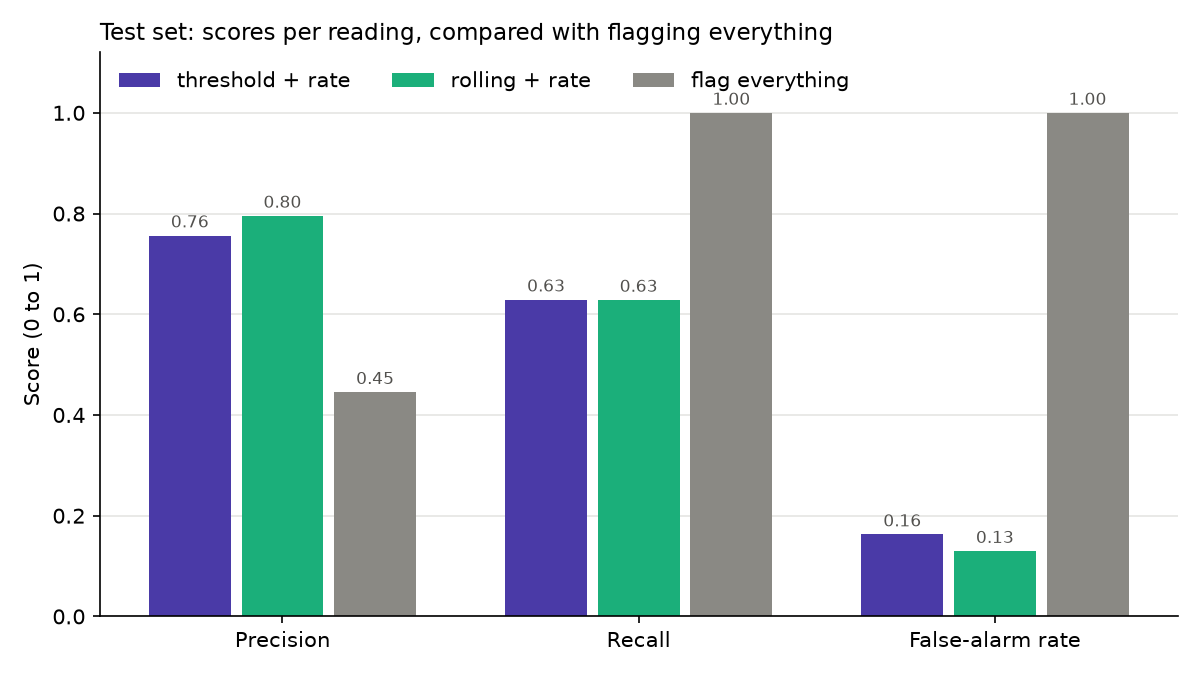
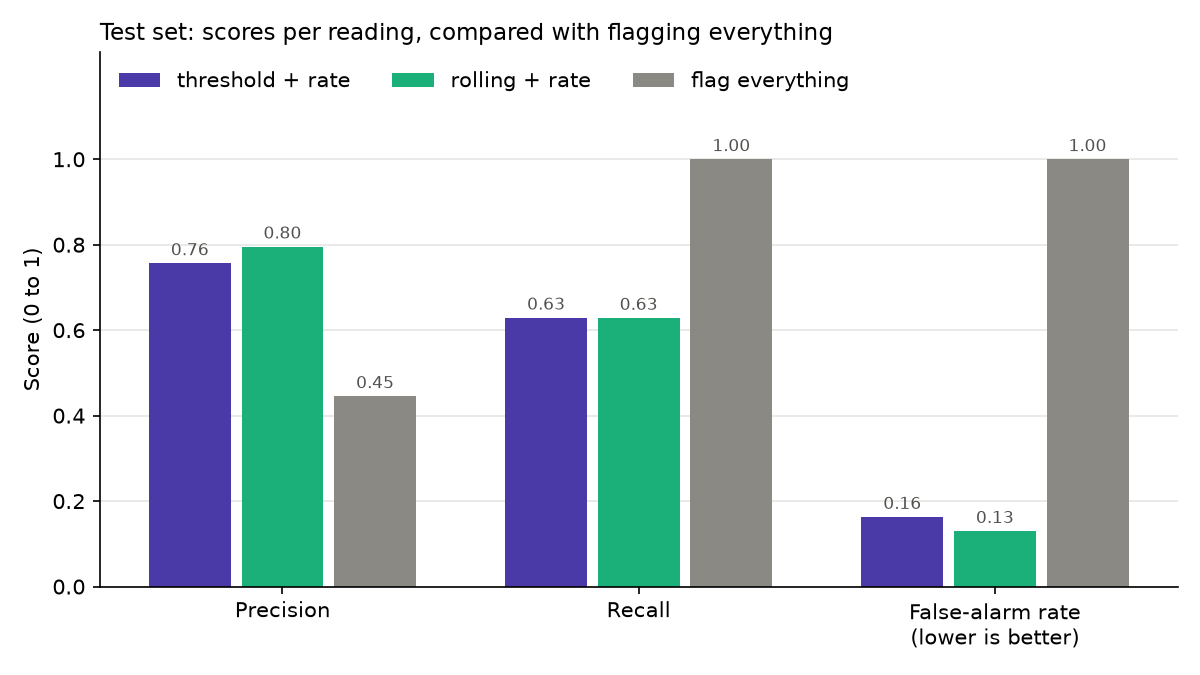
Phase 4 fixes: early-catch check and clearer caveats
- evaluate_test.py: check each alarm already running at fault start
  (started <=30 s before, lasts >=10 s into the fault, no earlier alarm on
  the same sensor); report detections counted both ways (9/10 either way)
- Chart (a): "(lower is better)" on the false-alarm rate, more headroom
- Report and README state clearly that 10 test files means uncertain results
- No detector settings changed

diff --git a/src/evaluate_test.py b/src/evaluate_test.py
@@ -64,6 +64,11 @@ FINAL_VARIANTS = ["threshold + rate", "rolling + rate"]
 VARIANT_COLOURS = {"threshold + rate": THRESHOLD_COLOUR, "rolling + rate": ROLLING_COLOUR}
 FLAG_EVERYTHING_COLOUR = "#8a8984"  # grey: a reference, not a detector
 
+# Rules for counting an alarm that was already running when a fault started
+# as a genuine early catch (see strict_detection below).
+EARLY_CATCH_WINDOW_S = 30
+EARLY_CATCH_MIN_INTO_FAULT_S = 10
+
 
 def fault_type(experiment_id):
     """Short fault-type name, grouped from the SKAB descriptions (split.csv)."""
@@ -149,6 +154,7 @@ def evaluate_file(rows, sensor_alarms):
     facts = {
         "detected": detected,
         "delay_s": delay,
+        **strict_detection(rows, fault, events),
         "fault_alarms": len(fault_events),
         "false_alarms": len(false_events),
         "normal_seconds": int((scored & (rows["anomaly"] == 0)).sum()),
@@ -156,6 +162,55 @@ def evaluate_file(rows, sensor_alarms):
     }
     per_second = pd.DataFrame({"alarm": in_alarm[scored], "anomaly": rows.loc[scored, "anomaly"]})
     return per_second, facts, events
+
+
+def strict_detection(rows, fault, events):
+    """A stricter way to count detections.
+
+    A "0 s" delay means an alarm was already running when the fault started.
+    That alarm only counts as a real (early) catch if ALL of these hold:
+      1. it started at most EARLY_CATCH_WINDOW_S seconds before the fault,
+      2. it kept going for at least EARLY_CATCH_MIN_INTO_FAULT_S seconds
+         into the fault (so the change carried on into the fault), and
+      3. none of its sensors had raised an earlier alarm in this file
+         (otherwise it looks like the normal noise of that sensor).
+    Otherwise, only alarms that START at or after the fault start count.
+    """
+    if not fault.any():
+        return {"detected_strict": False, "delay_strict_s": np.nan}
+    fault_start = rows.loc[fault, "datetime"].iloc[0]
+    fault_end = rows.loc[fault, "datetime"].iloc[-1]
+    result = {"alarm_on_at_fault_start": False, "early_alarm_started_s_before": np.nan,
+              "early_alarm_sensors": "", "early_catch_justified": False}
+
+    for event in events:
+        if event["start"] < fault_start <= event["end"]:
+            sensors = set(event["sensors"].split(", "))
+            earlier_same_sensor = any(
+                other["end"] < event["start"] and sensors & set(other["sensors"].split(", "))
+                for other in events)
+            seconds_before = (fault_start - event["start"]).total_seconds()
+            seconds_into = (event["end"] - fault_start).total_seconds()
+            result.update({
+                "alarm_on_at_fault_start": True,
+                "early_alarm_started_s_before": seconds_before,
+                "early_alarm_sensors": event["sensors"],
+                "early_catch_justified": (seconds_before <= EARLY_CATCH_WINDOW_S
+                                          and seconds_into >= EARLY_CATCH_MIN_INTO_FAULT_S
+                                          and not earlier_same_sensor),
+            })
+
+    # Alarms that start inside the fault period.
+    later = [e for e in events if fault_start <= e["start"] <= fault_end
+             and e["overlaps_labelled_anomaly"] is True]
+    if result["early_catch_justified"]:
+        delay = 0.0
+    elif later:
+        delay = (min(e["start"] for e in later) - fault_start).total_seconds()
+    else:
+        delay = np.nan
+    result.update({"detected_strict": not np.isnan(delay), "delay_strict_s": delay})
+    return result
 
 
 def evaluate_set(experiments, cache, detector, setting):
@@ -173,8 +228,10 @@ def evaluate_set(experiments, cache, detector, setting):
     summary = score(pd.concat(per_second))
     summary.update({
         "faults_detected": int(per_fault["detected"].sum()),
+        "faults_detected_strict": int(per_fault["detected_strict"].sum()),
         "faults": len(per_fault),
         "median_delay_s": per_fault["delay_s"].median(),
+        "median_delay_strict_s": per_fault["delay_strict_s"].median(),
         "false_alarm_events": int(per_fault["false_alarms"].sum()),
         "normal_hours": normal_hours,
         "false_alarms_per_hour": per_fault["false_alarms"].sum() / normal_hours,
@@ -257,7 +314,7 @@ def style_axes(ax):
 def chart_scores(test_summary, everything, filename):
     """(a) precision, recall, false-alarm rate per detector vs flag-everything."""
     metrics = ["precision", "recall", "false_alarm_rate"]
-    names = ["Precision", "Recall", "False-alarm rate"]
+    names = ["Precision", "Recall", "False-alarm rate\n(lower is better)"]
     series = [(v, [test_summary[v][m] for m in metrics], VARIANT_COLOURS[v]) for v in FINAL_VARIANTS]
     series.append(("flag everything", [everything[m] for m in metrics], FLAG_EVERYTHING_COLOUR))
     x = np.arange(len(metrics))
@@ -268,7 +325,8 @@ def chart_scores(test_summary, everything, filename):
         ax.bar_label(bars, labels=[f"{v:.2f}" for v in values], padding=2, fontsize=8,
                      color="#52514e")
     ax.set_xticks(x, names)
-    ax.set_ylim(0, 1.12)
+    ax.set_ylim(0, 1.25)
+    ax.set_yticks([0, 0.2, 0.4, 0.6, 0.8, 1.0])
     ax.set_ylabel("Score (0 to 1)")
     style_axes(ax)
     ax.legend(frameon=False, ncol=3, loc="upper left")

diff --git a/reports/phase4_evaluation.md b/reports/phase4_evaluation.md
@@ -1,5 +1,7 @@
 # Phase 4: evaluation on the held-out test set
 
+> **Read this first: the test set has only 10 experiment files (10 faults), so these results are uncertain.** One fault caught or missed changes the detection rate by 10 percentage points. Most fault types appear in only 1 or 2 test files. The numbers below describe these 10 files. They are not a reliable estimate of how the detectors would perform on other faults or other machines.
+
 **What was tested:** the final Phase 3b settings, unchanged, on the 10 test experiments that had not been used before.
 - **Threshold + rate:** k = 3, N = 10 s, no temperature levels; temperature rate with W = 30 s, k = 5.
 - **Rolling + rate:** 30 s window, k = 5, m = 2, N = 10 s, no temperature levels; temperature rate with W = 30 s, k = 6.
@@ -40,9 +42,10 @@ The script checks that these settings match Phase 3b before it runs. **No settin
 
 | | Threshold + rate | Rolling + rate |
 |---|---|---|
-| Faults detected | **9 of 10** | **9 of 10** |
-| Median delay (all detected faults) | 47 s | 67 s |
-| Median delay (only faults where the alarm started *after* the fault began) | 61 s | 68 s |
+| Faults detected, counting all alarms | **9 of 10** | **9 of 10** |
+| Faults detected, strict count (see 3b) | **9 of 10** | **9 of 10** |
+| Median delay, counting all alarms | 47 s | 67 s |
+| Median delay, strict count (see 3b) | 56 s | 67 s |
 | Separate false alarms | 10 | 11 |
 | Normal running scored | 1.14 h | 1.14 h |
 | **False alarms per hour of normal running** | **8.8** | **9.7** |
@@ -62,12 +65,33 @@ Per fault (`reports/phase4_per_fault.csv`); delay = seconds from fault start to 
 | valve1/15 | Inlet valve closed | 0 s* | 67 s | motor-temp. rate, flow / flow |
 | valve2/3 | Outlet valve closed | 67 s | 71 s | flow / flow |
 
-\* **0 s means an alarm was already running when the fault started,** so the detector can't really be credited with spotting the fault at that moment. Each of these faults still had alarms later in the fault period, so "detected" is still true.
+\* **0 s means an alarm was already running when the fault started.** Section 3b checks each case. Only valve1/10 counts as a genuine early catch; other/13 and valve1/15 are still detected, but by later alarms (20 s and 63 s).
 - In **other/13**, the alarm comes from the weak baseline (section 1).
 - In **valve1/10** and **valve1/15**, a temperature-rate alarm started shortly before the fault.
 - Without the rate rule, the threshold detector's delays for these two were 82 s and 63 s.
 
 ![delay](../figures/i_test_detection_delay_per_fault.png)
+
+## 3b. The "0 s" detections: early catch or artefact?
+
+Three test faults had an alarm **already running** when the labelled fault started. None of the tuning faults did.
+
+**The rule for counting such an alarm as a genuine early catch.** It was set before looking at the temperature traces, and is now calculated in `src/evaluate_test.py`. All three conditions must hold:
+1. The alarm started **at most 30 s before** the labelled fault.
+2. It kept going **at least 10 s into** the fault, so the change carried on into the fault.
+3. **None of its sensors had raised an earlier alarm** in that file's normal running. Otherwise it looks like that sensor's normal noise.
+
+**Strict count:** a fault counts as detected if it has a justified early catch, or an alarm that **starts** at or after the fault start.
+
+| Fault | Detector | Alarm running at fault start | Started | Verdict | Why (from the data) | Strict result |
+|---|---|---|---|---|---|---|
+| other/13 | both | flow | 266 s before (threshold), 245 s before (rolling) | **Not an early catch: bad baseline** | The baseline was learned from 36 readings while flow was still recovering (120.6 L/min, section 1). Normal flow afterwards (124–125 L/min) is beyond the limit, so the alarm runs through normal running. | Still detected: a new alarm (vibration 1 + flow) starts **20 s** into the fault, when flow collapses (to an average of about 49 L/min over that minute) |
+| valve1/10 | both | motor-temperature rate | 11 s before (threshold), 4 s before (rolling) | **Justified early catch** | Motor temperature starts falling at about 560 s and keeps falling into the fault (69.9 → 66.4 °C by 620–640 s). Its rate peaks at 8 baseline std inside the fault. Before 560 s, normal running never exceeded 3.6 std, and there was no earlier motor-temperature alarm. The same kind of drop was seen at fault onset in valve1/0 (Phase 2). | Detected, delay **0 s** |
+| valve1/15 | threshold only | motor-temperature rate | 8 s before | **Not counted as an early catch** | Motor temperature was already falling from about 500 s, more than 90 s before the fault (69.2 → 65.4 °C), and had caused an earlier false alarm on the same signal (536–558 s). The data can't tell us whether this cooling was part of the fault. | Still detected: a flow alarm starts **63 s** into the fault |
+
+**Result:** the strict count gives the same number of detected faults as counting all alarms: **9 of 10** for both detectors. Only the delays change. The threshold detector's median delay rises from 47 s to 56 s; the rolling detector's stays at 67 s. Per-fault details are in the `detected_strict`, `delay_strict_s` and `early_*` columns of `reports/phase4_per_fault.csv`.
+
+**Caveat:** "justified" means the data is consistent with an early sign of the fault. It doesn't prove the fall in valve1/10's temperature was caused by the fault; the labels may simply mark the start slightly late or early.
 
 ## 4. Results per fault type (test set)
 
@@ -145,7 +169,7 @@ Per fault (`reports/phase4_per_fault.csv`); delay = seconds from fault start to 
 
 ## 7. What these results do and don't show
 
-- **Small test set:** 10 faults, most fault types with 1–2 files. One more or one fewer caught fault changes the detection rate by 10 percentage points.
+- **Small test set, so uncertain results:** only 10 test files (10 faults), most fault types with 1–2 files. One more or one fewer caught fault changes the detection rate by 10 percentage points. The test results should be read as "how it went on these 10 files", not as a reliable performance figure.
 - **Precision is inflated:** 45% of scored test readings are anomalies, far more than on a real machine. On real equipment, where faults are rare, the same false alarms would make precision much lower.
 - **Both detectors show the same pattern:** they reliably catch faults that change flow or vibration strongly. They miss small flow changes, and they produce many false alarms when the baseline is unrepresentative (other/13) or when flow doesn't return to its starting level (other/12).
 - **This is anomaly detection, not failure prediction.** An alarm means "readings differ from this run's first 5 minutes". It says nothing about when, or whether, equipment will fail.

diff --git a/README.md b/README.md
@@ -132,6 +132,7 @@ Built with Python 3.14, pandas 3.0.6, NumPy 2.5.4, Matplotlib 3.11.2.
 - **Each test file uses its own first 5 minutes as baseline**, exactly as in tuning, even when that baseline is not fully normal (`other/13`).
 - **Conflicting-label readings are never scored.** An alarm that only touches such readings counts as neither a fault alarm nor a false alarm.
 - **A fault is "detected"** if any alarm overlaps its labelled period after the baseline. **Delay** is the time from the first labelled-anomaly reading to the first alarm reading inside the fault. 0 s means an alarm was already running when the fault started.
+- **Strict count of detections:** an alarm already running at fault start only counts as an early catch if it started at most 30 s before the fault, lasted at least 10 s into it, and none of its sensors had alarmed earlier in that file. Otherwise only alarms that start at or after the fault start count. Both counts are reported (9 of 10 either way).
 - **False alarms per hour** = separate false alarms ÷ hours of scored normal running (1 reading ≈ 1 second).
 - **"Flag everything" baseline:** always in alarm. Its precision is the share of anomaly readings among the scored readings.
 
@@ -146,7 +147,7 @@ Built with Python 3.14, pandas 3.0.6, NumPy 2.5.4, Matplotlib 3.11.2.
 - **Three different normal operating points.** Normal flow is about 127 L/min on 2020-02-08 (anomaly-free run, `other/5`–`11`), about 76 L/min on 2020-03-01 (`other/2`–`4`), and about 32 L/min on 2020-03-09 (all valve files). Current and vibration differ in the same way. So the anomaly-free run only describes "normal" for the 2020-02-08 experiments. The docs don't explain the difference.
 - **Pressure readings are very coarse.** They take only about 10 distinct values, about 0.328 bar apart, so small pressure changes can't be seen. 7 readings (−1.257 bar) are below a perfect vacuum, which is physically impossible. They are kept and flagged with `flag_impossible_value`.
 - **Some fault types appear only in tuning or only in test.** The `other/` folder holds many fault types with one or a few files each. Rotor imbalance and water-volume changes are only in tuning. Cavitation and hot water supply are only in test. Test results for those faults will show whether a detector generalises to a fault it wasn't tuned on, but each rests on one or two files.
-- **Small test set.** 10 experiment files, so Phase 4 results will have wide uncertainty.
+- **The test set has only 10 files, so the test results are uncertain.** With 10 faults, one fault caught or missed changes the detection rate by 10 percentage points, and most fault types appear in only 1–2 test files. Treat the Phase 4 numbers as "how it went on these 10 files", not as a reliable performance figure.
 - **Phase 3 scores are tuning results, so they are optimistic.** The settings were picked on the same files they are scored on. Real performance is measured in Phase 4 on the test files.
 - **A 5-minute baseline only stays valid for minutes.** In the 2.8-hour anomaly-free run, both detectors are in alarm about 88–89% of the time, because vibration and flow slowly drift away from their first 5 minutes. In the first 15 minutes after its baseline (about the length of a fault experiment), the share is 5% (threshold) and 0% (rolling). A real machine would need its baseline re-learned regularly.
 - **Temperatures are only watched through their rate of change.** A temperature fault that builds up slowly and steadily would not be caught.
